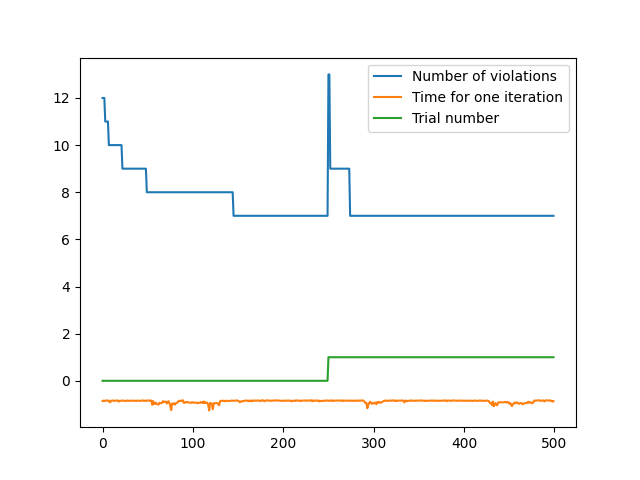
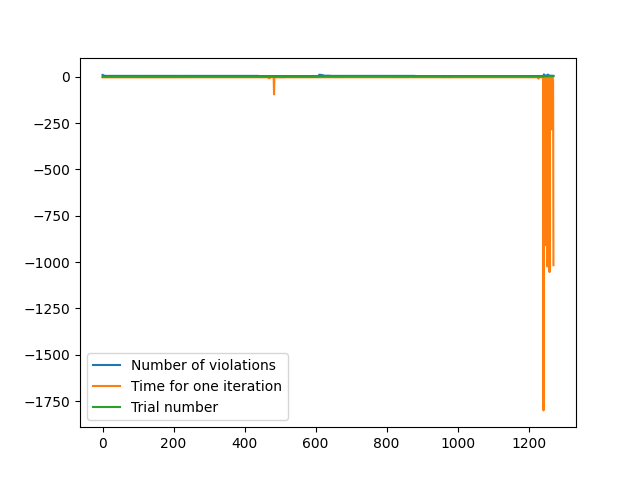
Adding full version of beam search

diff --git a/Devoir2/utils/beam_search.py b/Devoir2/utils/beam_search.py
@@ -17,7 +17,7 @@ class ProbabilisticBeamSearch():
                  mu: float = 0.2, 
                  n_samples: int = 10, 
                  sample_percent: int = 100):
-        assert int(beam_width) > 0, "beam_width must be greater than 1"
+        assert int(beam_width) > 0, "beam_width must be greater than 0"
         assert mu >= 1, "mu must be >= 1"
         self.tsptw: TSPTW = tsptw
         self.ant: Ant = ant
@@ -30,33 +30,76 @@ class ProbabilisticBeamSearch():
 
 
     def beam_construct(self) -> List[int]:
+        # Init param for the search
         depot_id = 0
         pheromone = self.ant.pheromone
         beam_root = BeamNode(depot_id, pheromone)
         self.__random_define_lambda()
         number_of_children_not_in_solution = self.tsptw.num_nodes - 1  # C := C(B_t) 
-        # switch when Reduce is implemented self.__beam__construction_step(beam_root, number_of_children_not_in_solution) # for t := 0 to n (recursive)
-        self.__beam__construction_step(beam_root, self.mu_k_bw, number_of_children_not_in_solution) # for t := 0 to n (recursive)
+        beam_leafs = [beam_root]
 
-        potential_solutions = beam_root.extract_solution() 
-        potential_solutions_cost = [self.tsptw.get_solution_cost(solution) for solution in potential_solutions]
-        return potential_solutions[np.argmin(potential_solutions_cost)] + [0] # return argmin_lex{T | T in B_n}
-        
-
-    # switch when Reduce is implemented def __beam__construction_step(self, beam: BeamNode, number_of_children_not_in_solution: int) -> None:
-    def __beam__construction_step(self, beam: BeamNode, mu_k_bw: int, number_of_children_not_in_solution: int) -> None:
-        
-        for _ in range(min(mu_k_bw, number_of_children_not_in_solution)):
-            id_of_next_customer = self.__stochastic_sampling(beam.pheromone, beam.id)   # <P,j> := ChooseFrom(C
-            child_node = BeamNode(id_of_next_customer, beam.pheromone)                  # B_{t+1} := B_t union <P,j> and C := C\<P,j>
-            beam.children.add(child_node)
-        # Todo: B_{t+1} := Reduce(B_{t+1}, k_bw)
-
-        for beam_child in beam.children:
-            # switch when Reduce is implemented self.__beam__construction_step(beam_child, number_of_children_not_in_solution-1) # for t := 0 to n (recursive)
-            self.__beam__construction_step(beam_child, max(1, mu_k_bw-1), number_of_children_not_in_solution-1) # for t := 0 to n (recursive)
-
+        # Beam search
+        while number_of_children_not_in_solution != 0:
+            # 1. Sample
+            for beam_leaf in beam_leafs:
+                self.__beam_search_expand(beam_leaf, number_of_children_not_in_solution)
+            # 2. Reduce
+            beam_root, beam_leafs = self.__beam_search_reduce(beam_root)
+            number_of_children_not_in_solution -= 1
     
+        return beam_root.extract_best_solution(self.tsptw) + [0] # return argmin_lex{T | T in B_n}
+
+
+    def __beam_search_expand(self, beam: BeamNode, number_of_children_not_in_solution: int) -> None:
+        for _ in range(min(self.mu_k_bw, number_of_children_not_in_solution)):
+            id_of_next_customer = self.__stochastic_sampling(beam.pheromone, beam.id)   # <P,j> := ChooseFrom(C
+            beam.create_and_add_child(id_of_next_customer)                              # B_{t+1} := B_t union <P,j> and C := C\<P,j>
+
+
+    def __beam_search_reduce(self, beam_root: BeamNode) -> Tuple[BeamNode, List[BeamNode]]:
+        # Not optimal, could be done in a single BeamNode data struc
+        potential_solutions = beam_root.extract_solution()
+        # Keep beam_width leaf with max_children at the new node
+        sorted_solutions = self.__sort_solutions(potential_solutions)
+        
+        child_leafs = list()
+        beam_root = BeamNode(beam_root.id, beam_root.pheromone)
+        n_solution_selected = 0
+        while n_solution_selected < self.beam_width:
+            # Bottom of the tree is reach
+            if n_solution_selected >= len(sorted_solutions):
+                break 
+            # The best solution
+            best_solution = sorted_solutions[n_solution_selected]
+            # Delete the root since we already consider it in beam_root
+            beam_parent = beam_root
+            del best_solution[0]
+            # TODO: Add the max_children feature
+            for child_id in best_solution:
+                if child_id in beam_parent.children.keys():
+                    beam_parent = beam_parent.children[child_id]
+                else:
+                    beam_parent = beam_parent.create_and_add_child(child_id)
+
+            child_leafs.append(beam_parent)
+            n_solution_selected += 1
+        
+        return beam_root, child_leafs
+            
+
+    def __sort_solutions(self, potential_solutions: List[List[int]]) -> List[List[int]]:
+        potential_solutions_cost = [self.tsptw.get_solution_cost(solution) for solution in potential_solutions]
+        sorted_solutions = list()
+        np.argmin(potential_solutions_cost)
+        while len(potential_solutions) != 0:
+            best_solution_idx = np.argmin(potential_solutions_cost)
+            sorted_solutions.append(potential_solutions[best_solution_idx])
+            del potential_solutions[best_solution_idx]
+            del potential_solutions_cost[best_solution_idx]
+
+        return sorted_solutions
+
+
     def __stochastic_sampling(self, pheromone: List[List[float]], last_customer_added: int) -> int:
         """
         -> ChooseFrom(C) from the paper
@@ -88,10 +131,12 @@ class ProbabilisticBeamSearch():
 
         return eta
     
+
     def __random_define_lambda(self):
         self.lambda_c = np.random.uniform(0, 1.0)
         self.lambda_l = np.random.uniform(0, 1.0-self.lambda_c)
         self.lambda_e = 1.0 - self.lambda_c - self.lambda_l
+
 
     @property
     def __heuristic_benefit_of_visiting_customer_attributes(self) -> Tuple[np.ndarray[np.floating], np.ndarray[np.floating], np.ndarray[np.floating]]:

diff --git a/Devoir2/utils/beam_node.py b/Devoir2/utils/beam_node.py
@@ -2,6 +2,8 @@ from copy import deepcopy
 from typing import List
 import numpy as np
 
+from tsptw import TSPTW
+
 class BeamNode:
 
     def __init__(self, node_id, pheromone):
@@ -14,21 +16,21 @@ class BeamNode:
     def extract_solution(self) -> List[List[int]]:
         def recursive_solution_builder(beam_node: BeamNode, solution: List[int], solutions_found: List[List[int]]):
             solution.append(beam_node.id)
-            if len(beam_node.children) == 0:
+            if len(beam_node.children.keys()) == 0:
                 solutions_found.append(solution)
             else:
-                for child in beam_node.children:
-                    recursive_solution_builder(child, deepcopy(solution), solutions_found)
+                for child_id in beam_node.children.keys():
+                    recursive_solution_builder(beam_node.children[child_id], deepcopy(solution), solutions_found)
                           
         solutions_found = []
         recursive_solution_builder(self, [], solutions_found)
         return solutions_found
 
     
-    def extract_best_solution(self):
+    def extract_best_solution(self, tsptw: TSPTW):
         potential_solutions = self.extract_solution()
-        potential_solutions_cost = [self.tsptw.get_solution_cost(solution) for solution in potential_solutions]
-        return potential_solutions[np.argmin(potential_solutions_cost)] 
+        potential_solutions_cost = [tsptw.get_solution_cost(solution) for solution in potential_solutions]
+        return potential_solutions[np.argmin(potential_solutions_cost)]  
         
 
     def create_child(self, child_id: int):

diff --git a/Devoir2/solver_advanced.py b/Devoir2/solver_advanced.py
@@ -22,18 +22,18 @@ def solve(tsptw: TSPTW) -> List[int]:
     """
     # Variables
     # nb_of_iter = 100_000    # Stopping criteria 
-    nb_of_iter = 250        # Stopping criteria 
-    time_limit = 10*60      # Stopping criteria 
-    nb_of_ants = 25          # n_of_ants: the number of ants
+    nb_of_iter = 1050        # Stopping criteria 
+    time_limit = 30*60      # Stopping criteria 
+    nb_of_ants = 20          # n_of_ants: the number of ants
     l_rate = 0.1            # l_rate: the learning rate for pheromone values
     tau_min = 0.001         # lower limit for the pheromone values
     tau_max = 0.999         # upper limit for the pheromone values
-    determinism_rate = 0.2  # rate of determinism in the solution construction
-    nb_of_trials = 2        #  number of trials to be executed for the given problem instance
-    beam_width = 1          # parameters for the beam procedure
-    mu = 4.0                # stochastic sampling parameter
+    determinism_rate = 0.1  # rate of determinism in the solution construction
+    nb_of_trials = 4        #  number of trials to be executed for the given problem instance
+    beam_width = 10          # parameters for the beam procedure
+    mu = 5.0                # stochastic sampling parameter
     max_children = 100      # stochastic sampling parameter #! NOT USED 
-    n_samples = 10          # stochastic sampling parameter #! NOT USED 
+    n_samples = 5           # stochastic sampling parameter
     sample_percent = 100    # stochastic sampling parameter #! NOT USED 
     do_local_search = True  # If the local search heuristic is executed
     
